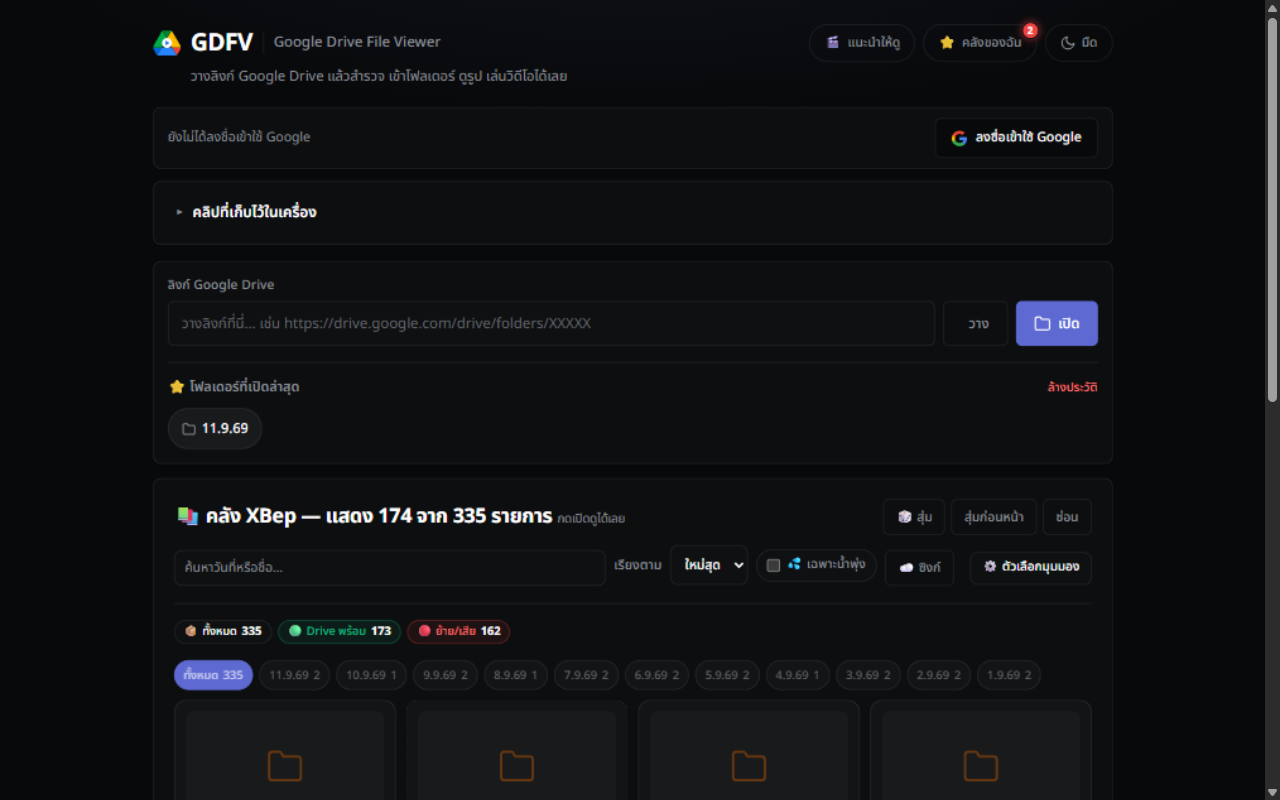
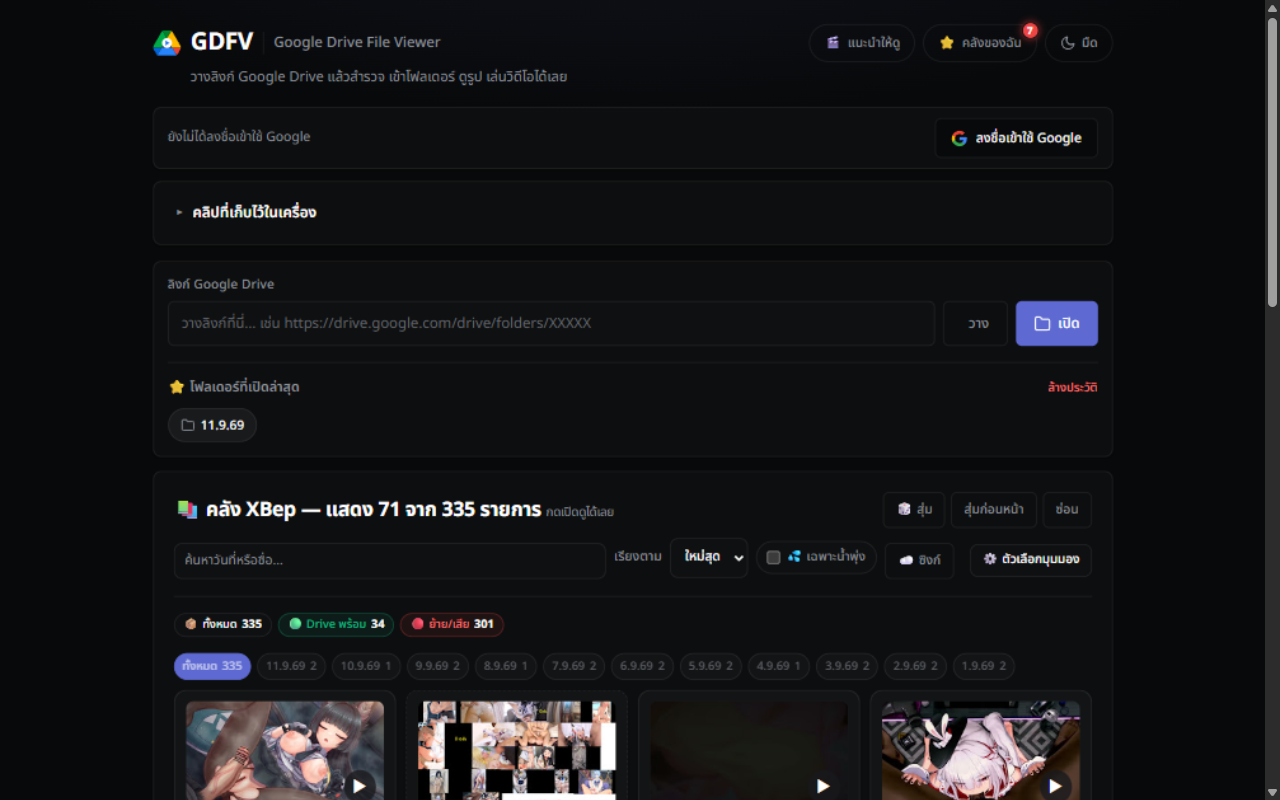
test(audit): verify r24 production - items 1-5 pass, menu-overlaps-cancel bug found
Notes #65: deploy markers verified (r24/debug/r3), suite 219/219, boot+collection+real-click pass with zero console errors, playback 5.26s, diagnostics pill expand/copy/collapse verified, download 8-pipe 11-12 MB/s cancelled at 68%, seek recovery 9.8s over the 5s bar, six evidence screenshots on the current deploy

diff --git a/docs/AI-WORKING-NOTES.md b/docs/AI-WORKING-NOTES.md
@@ -1326,3 +1326,19 @@
 - **รายงานที่เผยบั๊ก:** r17 + หน้าต่าง 12 วิ แต่ `[sw] หมดเวลา` ยิงที่ 7.4s — ไม่ใช่ 12s = นาฬิกาของ**attempt ก่อนหน้า**ที่ยังค้าง: เปลี่ยนไฟล์เร็ว ๆ แล้วเซสชันใหม่**ยืม** promise ที่ pending อยู่ (`if (!streamWorkerReady)` ไม่สร้างใหม่) พร้อมนาฬิกาที่ตั้งไว้แต่คลิปก่อน → ยิงกลางเซสชันใหม่ → ตัดสินหมดเวลาก่อนกำหนด + trace ปนเปื้อน + มี race: .then ของ attempt เก่า reset `streamWorkerReady = null` ทับ attempt ใหม่ที่กำลังบิน
 - **การแก้ (video-player r18):** (1) epoch ต่อเซสชัน (openVideo บวกทีละ 1) — finish ของ attempt เก่า trace เฉพาะเมื่อยังเป็นเซสชันปัจจุบัน (2) **refresh deadline**: ผู้ใช้แต่ละคนที่ยืม attempt ค้างอยู่ ได้หน้าต่าง 12 วิ ของตัวเองเต็ม ๆ (`streamWorkerDeadlineRefresh` ต่อ attempt, ทุก prepareStreamWorker เรียก) (3) clobber guard แบบ identity (streamWorkerReady === attempt) กัน .then เก่า reset ทับ
 - **บริบทที่ยืนยันแล้วในรอบเดียวกัน:** ผมทดสอบ register() บน production origin เองใน IAB — เจอค้างเหมือนผู้ใช้เป๊ะตอน CDN ยังเสิร์ฟ drive-stream-sw.js เก่า (Pages CDN แคช ~10 นาทีหลัง deploy SW ใหม่) และหายเองเมื่อ CDN สด — **บทเรียน: drive-stream-sw.js เปลี่ยนแล้วต้องรอ CDN TTL ด้วย แม้จะไม่มี buster เพราะ updateViaCache:none ข้ามแคชเบราว์เซอร์แต่ไม่ข้าม CDN edge** — รวมถึง SW ฝั่งเบราว์เซอร์เสริม reason noToken + หน้าเว็บ trace [swtok] คำตอบ handshake (134dbe5) และผู้ใช้ล้าง site data แล้ว SW ฟื้นจริง (bearer วิ่งครั้งแรกหลัง redesign, probe พิสูจน์ token+ไฟล์ปกติ — เหลือตรวจว่าทำไม SW-mediated response ไม่เป็นวิดีโอ: รอ [swtok]/[swerr] จากรายงานถัดไป)
+
+### 65. Audit production หลัง deploy r24 (โหมดอ่านอย่างเดียว) — ข้อ 1-5 ผ่านยกเว้น seek เกินเกณฑ์ + เจอบั๊กเมนูลอยทับปุ่มยกเลิก (/Poteto Mode) (2026-11-08)
+- **สถานะ:** `VERIFIED` (audit read-only บน production จริง + suite 219/219; ภาพหลักฐาน 6 ภาพ gui-test-screenshots/audit-*.png)
+- **ข้อ 1 deploy markers (curl ทั้งสาม ผ่านหมด):** CDN index.html `video-player.js?v=20261108-r24` (และ buster อื่นตรง HEAD ทุกตัว) · drive-stream-sw.js มี `drive-stream-debug` 3 จุด · Worker `X-GDV-Worker-Rev: 2026-11-08-r3` (OPTIONS)
+- **ข้อ 2 เทส:** `node --test tests/*.cjs` → **219/219 PASS (0 fail, ~24s)** — ต้นทางตรง CDN ทุก buster
+- **ข้อ 3 หน้าเว็บ (IAB desktop 1280 + mobile 390):** บูตครบ (GDVVideoApi/GDVExplorerApi/GDVLightboxApi/GDVCollectionApi + GDVVideoHost + GDVStreamProtocol publish ครบ, video-player r24 ถึงเบราว์เซอร์), คลัง XBep render + chips ตรงข้อมูล daily ล่าสุด (ทั้งหมด 335 / พร้อม 34 / ตาย-เสีย 301 ตรง commit 0615ed3), คลิกการ์ด→ปุ่ม "เปิด" ด้วย cua click จริงเปิดโฟลเดอร์ได้ (breadcrumb + การ์ดไฟล์ 10 + toast), mobile 390 แถบล่าง render และ "กลับคลัง" คลิกจริงกลับหน้าคลังได้ — **console error = 0 ตลอดทุก flow** (monkey-patch จับ error/unhandledrejection/console.error ตั้งแต่หลังโหลด)
+- **ข้อ 4 วิดีโอสาธารณะ (ไฟล์เล็กสุดในโฟลเดอร์ 144.4 MB, หมุนเวียนไฟล์ 3 ไฟล์ ไม่ซ้ำ):** trace ของผู้เล่น (authoritative) — open → route worker เริ่มที่ 0.08s → **status "playing" ที่ 5.26s (≤10s ผ่าน)** · env line แสดง "SW ควบคุมหน้าอยู่" (SW ลงทะเบียนติดรอบนี้ ไม่มีอาการค้าง), เฟรมเล่นจริงยืนยันด้วย currentTime เดิน 78→78.9 ใน 1.1s · เม็ด "วินิจฉัย (16)" top-right (top:8px right:8px) **คลิกขยายจริงได้, คัดลอกจริงขึ้น "คัดลอกแล้ว ✓" (clipboard สำเร็จ), ย่อกลับได้, เม็ดยังอยู่ระหว่างเล่น** — **FAIL จุดเดียว: seek ไปกลางคลิป (target 30s) กู้เฟรมใน 9.8s (วัดในหน้าด้วย performance.now ตัดความหน่วงเครื่องมือแล้ว) เกินเกณฑ์ 5s** บนไฟล์ 1080P MOV สาย anonymous worker; ปรากฏการณ์เสริม: trace มีช่วง status "buffering"→"playing" ยาว 35.9s (61.5→97.4) ทั้งที่เฟรมเดินจริงตามการสังเกตตรง = status event ตามหลังความจริง (entry 54 recovery ยังปิด overlay ได้ — overlayGone จริง)
+- **ข้อ 5 ดาวน์โหลดทั้งไฟล์ (ไฟล์ 233.1 MB อีกไฟล์):** แถบความคืบหน้าแสดงครบ "กำลังโหลดทั้งไฟล์: 48.0 MB / 233.1 MB (20%) · 11.0 MB/s · ⚡ 8 ท่อขนาน · เหลือประมาณ 17 วินาที" (ขนาด/Mbps/ท่อ/ETA ตรง entry 62 — 8 ท่อจริง, 11-12.1 MB/s) · ไม่มีไดอะล็อกยืนยันแยก ขนาดไฟล์แสดงบนแถบความคืบหน้าแทน · **ยกเลิกกลางทาง (68%) สำเร็จ** — แผงปิด, ปุ่มยกเลิกหาย, โหลดไม่จบ
+- **ข้อ 6 login-gated:** **รอผู้ใช้** — bearer stream / auto-recovery เมื่อ SW ค้าง / AC-3 gate บนไฟล์จริง (รอบนี้ไม่ล็อกอิน; ห้ามเดา)
+- **บั๊กที่พบ:**
+  1. **สำคัญ:** เมนู "ดูแบบอื่น ⋯" ไม่ปิดตัวหลังกด "โหลดทั้งไฟล์แทน" → แผง `.menu-panel` ลอยทับปุ่ม "ยกเลิกการโหลด" — `elementsFromPoint` ตรงกลางปุ่มยกเลิกโดน `BUTTON#vidExternalPlayer` (ในเมนู) ก่อนปุ่มเป้าหมาย ทุกพิกัดใน rect ของปุ่ม → **ผู้ใช้คลิกยกเลิกไม่ได้ระหว่างโหลด จนกว่าจะปิดเมนูเอง (Esc/คลิกนอก) แล้วจึงคลิกยกเลิกได้จริง (พิสูจน์แล้ว)** — ต้นตอเชิงโครงสร้างคือ menu panel ไม่ถูก dismiss หลังเลือกรายการ + z-order ทับแผงโหลด
+  2. **ไม่สำคัญ:** seek recovery 9.8s เกินเกณฑ์ (ด้านบน) + status "buffering" ตามหลังเฟรมจริง (trace lag) — UX รับรู้สถานะค้างทั้งที่เล่นอยู่
+  3. **ไม่สำคัญ:** ป้ายปุ่ม turbo ช่วงหนึ่ง (แผง quick-action ตอนบัฟเฟอร์ ไฟล์ก่อน) แสดง "สปีดสูงสุด (6 ท่…" ขณะที่ป้ายปัจจุบันและตัวเลขจริงเป็น 8 ท่อ — สังเกตการณ์จากข้อความที่จับได้ครั้งเดียว ควรเช็ค label template ว่ามีข้อความ 6 ท่อค้างในโค้ดหรือไม่ (ยังไม่ได้เปิดโค้ดยืนยัน)
+- **ข้อ 7 เทียบ notes #53-#64:** #53-#57 (trace/overlay/title-bar/chrome rows) ตรงของจริงทุกข้อ (แถบชื่อ+แถวปุ่มอยู่ใต้กรอบวิดีโอจริง, trace เดินจริงทุก event) · #59-#61 (เม็ดย่อ/ขยาย/คัดลอก/z-index) ตรง · #62 (8 ท่อ) ตรงทั้งหน้าเว็บและ worker r3 · #64 (SW race) รอบนี้ SW ลงทะเบียนติดทันทีไม่เจออาการ — ยืนยันโดยตรงได้เฉพาะเคสไม่ค้าง
+- **หลักฐานภาพ:** audit-1-home-desktop / audit-2-folder-opened-desktop / audit-3-video-modal-open (เฟรมเล่น+เม็ดขยาย+ปุ่มคัดลอก) / audit-download-confirm (แถบ 20% · 11.0 MB/s · ⚡ 8 ท่อขนาน) / audit-download-cancelled (หลังยกเลิกที่ 68%) / audit-mobile-home (390) — ทั้งหมดบน deploy r24 ปัจจุบัน; ภาพ audit-* รอบก่อน (reshoot/desktop-*) ยังเป็น deploy เก่า ไม่รวม commit
+- **ข้อจำกัดของรอบนี้:** วัดเวลาในหลายจุดผ่าน MCP RTT (~1-2s/จอบ) เลยใช้ trace ในหน้า + performance.now เป็นตัวเลขหลัก · ไฟล์ทดสอบหมุน 3 ไฟล์ (144.4/233.1 + ไฟล์ resume) ไม่เล่นซ้ำไฟล์เดิม
